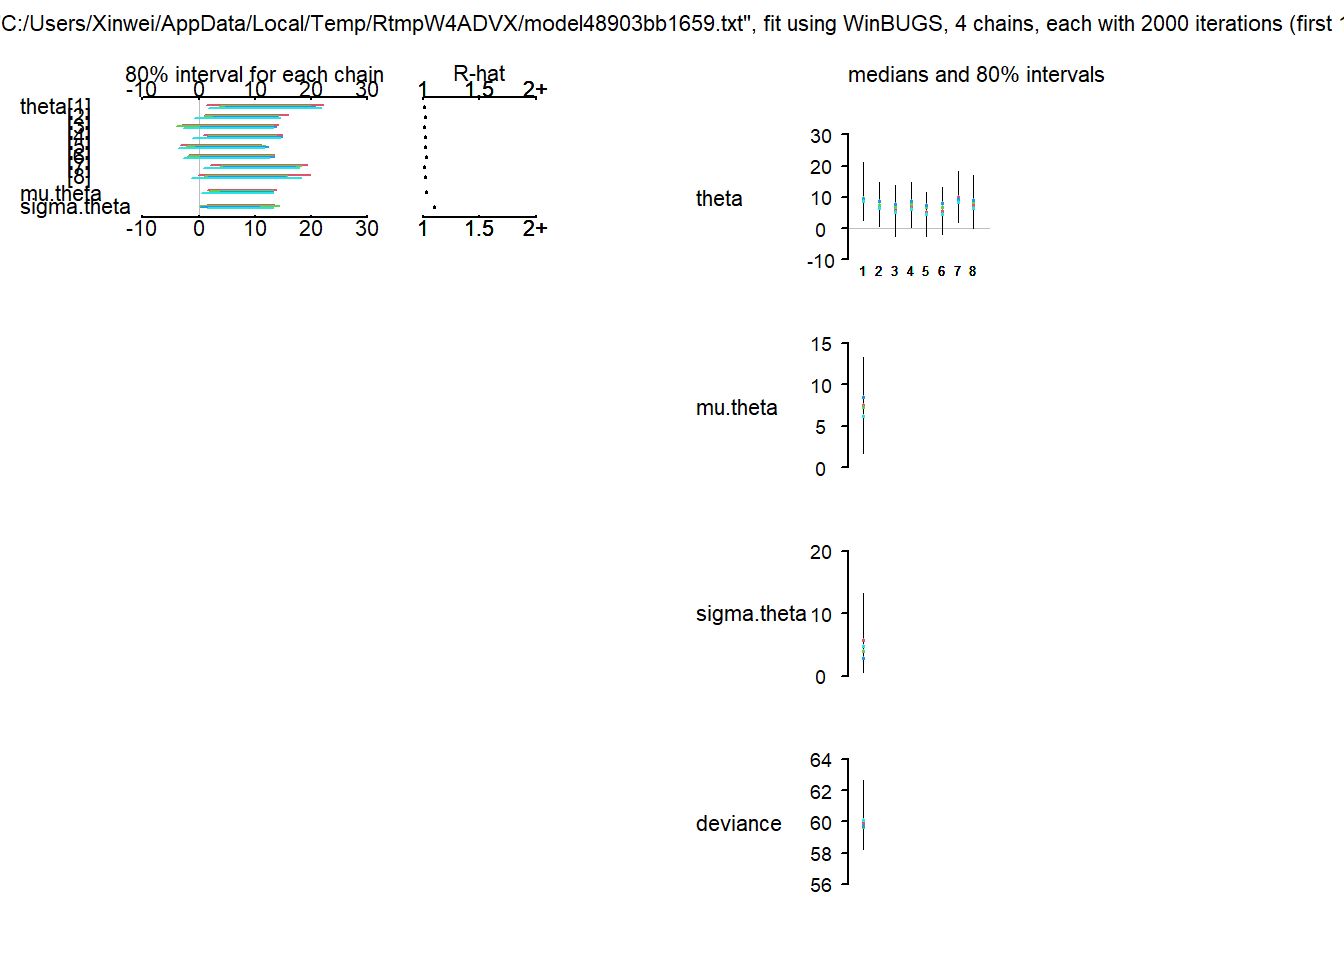
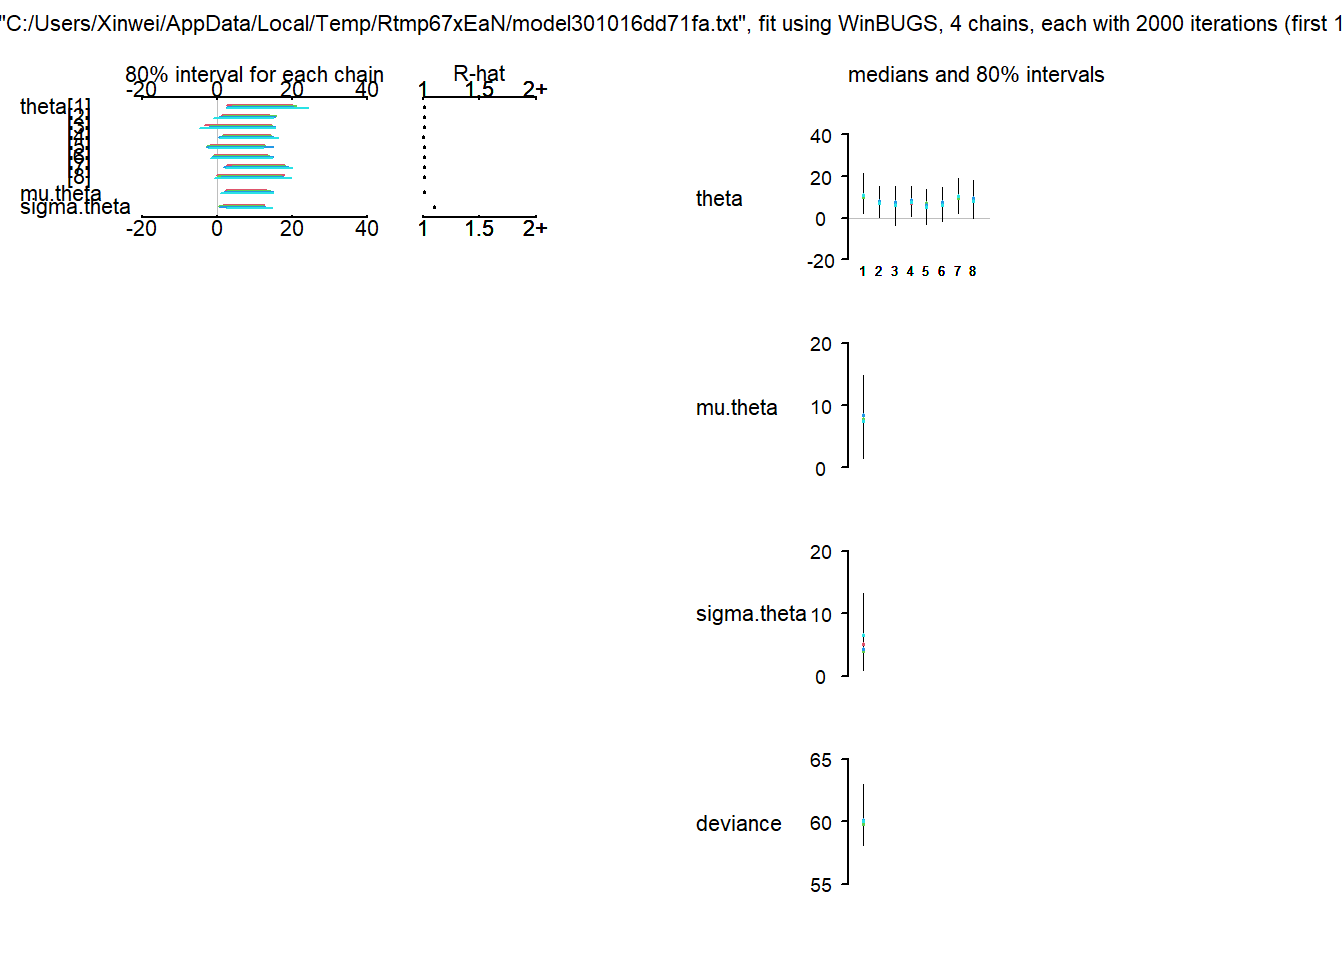
Update

diff --git a/docs/index.html b/docs/index.html
@@ -269,7 +269,7 @@ X_i \sim \text{Normal}(\mu,\sigma^2)
 <span id="cb1-12"><a href="#cb1-12" aria-hidden="true" tabindex="-1"></a><span class="fu">list</span>(<span class="at">x =</span> <span class="fu">c</span>(<span class="fl">6.62</span>, <span class="fl">6.71</span>, <span class="fl">5.07</span>, <span class="fl">4.39</span>, <span class="fl">5.68</span>, <span class="fl">3.94</span>, <span class="fl">5.83</span>, <span class="fl">2.31</span>, <span class="fl">3.60</span>, <span class="fl">4.64</span>,</span>
 <span id="cb1-13"><a href="#cb1-13" aria-hidden="true" tabindex="-1"></a><span class="fl">1.79</span>, <span class="fl">3.12</span>, <span class="fl">3.46</span>, <span class="fl">8.25</span>, <span class="fl">5.49</span>, <span class="fl">6.49</span>, <span class="fl">2.65</span>, <span class="fl">9.14</span>, <span class="fl">5.31</span>, <span class="fl">6.58</span>))</span>
 <span id="cb1-14"><a href="#cb1-14" aria-hidden="true" tabindex="-1"></a></span>
-<span id="cb1-15"><a href="#cb1-15" aria-hidden="true" tabindex="-1"></a><span class="fu">list</span>( <span class="at">mu=</span><span class="fu">c</span>(<span class="dv">0</span>), <span class="at">prec=</span><span class="fu">c</span>(<span class="dv">1</span>) )</span></code><button title="Copy to Clipboard" class="code-copy-button"><i class="bi"></i></button></pre></div>
+<span id="cb1-15"><a href="#cb1-15" aria-hidden="true" tabindex="-1"></a><span class="fu">list</span>( <span class="at">mu=</span><span class="dv">0</span>, <span class="at">prec=</span><span class="dv">1</span> )</span></code><button title="Copy to Clipboard" class="code-copy-button"><i class="bi"></i></button></pre></div>
 </div>
 <p>Note: In BUGS, the second parameter of <code>dnorm</code> is the inverse of normal variance.</p>
 <p>Now let’s see how to run these codes in WinBUGS. Open WinBUGS and create an empty script (File -&gt; New). <img src="https://github.com/XinweiBuffalo/WinBUGS/blob/main/pic/01_interface.png?raw=true" class="img-fluid"></p>
@@ -435,27 +435,27 @@ y_j|\theta_j, \sigma_j^2 \sim \text{Normal}(\theta_j, \sigma_j^2=1/\tau_j)
 <div class="sourceCode cell-code" id="cb9"><pre class="sourceCode r code-with-copy"><code class="sourceCode r"><span id="cb9-1"><a href="#cb9-1" aria-hidden="true" tabindex="-1"></a><span class="co"># summary statistics</span></span>
 <span id="cb9-2"><a href="#cb9-2" aria-hidden="true" tabindex="-1"></a><span class="fu">print</span>(schools.sim)</span></code><button title="Copy to Clipboard" class="code-copy-button"><i class="bi"></i></button></pre></div>
 <div class="cell-output cell-output-stdout">
-<pre><code>Inference for Bugs model at "C:/Users/Xinwei/AppData/Local/Temp/RtmpW4ADVX/model48903bb1659.txt", fit using WinBUGS,
+<pre><code>Inference for Bugs model at "C:/Users/Xinwei/AppData/Local/Temp/Rtmp67xEaN/model301016dd71fa.txt", fit using WinBUGS,
  4 chains, each with 2000 iterations (first 1000 discarded), n.thin = 4
  n.sims = 1000 iterations saved
             mean  sd  2.5%  25%  50%  75% 97.5% Rhat n.eff
-theta[1]    10.8 7.8  -1.9  6.2  9.3 14.4  29.5  1.0  1000
-theta[2]     7.7 5.7  -3.2  4.1  7.6 11.0  20.0  1.0   280
-theta[3]     6.1 7.4 -11.5  2.6  6.7 10.0  19.6  1.0   250
-theta[4]     7.5 6.0  -5.0  4.0  7.3 10.7  19.9  1.0   260
-theta[5]     5.2 6.1  -9.1  1.7  6.4  9.3  16.0  1.0   130
-theta[6]     6.0 6.2  -7.5  2.2  6.5  9.8  18.3  1.0   110
-theta[7]     9.9 6.5  -0.6  5.9  9.3 13.2  25.5  1.0   440
-theta[8]     8.3 7.4  -4.8  4.3  8.0 11.6  26.1  1.0   550
-mu.theta     7.7 4.9  -1.7  5.0  7.5 10.3  18.4  1.0   190
-sigma.theta  5.8 5.4   0.1  1.9  4.4  8.3  20.1  1.1    48
-deviance    60.2 1.9  57.1 59.1 59.8 61.2  64.9  1.0   760
+theta[1]    11.4 8.2  -2.0  6.4 10.4 15.4  32.8  1.0   520
+theta[2]     7.7 6.2  -4.2  4.0  7.5 11.2  21.1  1.0   340
+theta[3]     6.5 7.8 -10.3  2.1  7.2 11.1  20.8  1.0   500
+theta[4]     7.8 6.2  -5.4  4.0  7.8 11.5  20.3  1.0  1000
+theta[5]     5.4 6.8 -10.4  1.6  6.1  9.6  16.8  1.0   480
+theta[6]     6.4 6.7  -8.2  2.7  6.9 10.4  18.4  1.0   550
+theta[7]    10.5 6.7  -1.4  6.3  9.9 14.8  25.0  1.0   920
+theta[8]     9.0 7.7  -4.4  4.2  8.5 13.4  26.1  1.0  1000
+mu.theta     7.9 5.1  -2.2  4.8  7.9 11.1  17.4  1.0   990
+sigma.theta  6.4 5.6   0.1  2.4  5.1  9.1  22.0  1.1    52
+deviance    60.4 2.3  57.0 59.0 59.9 61.5  66.4  1.0   700
 
 For each parameter, n.eff is a crude measure of effective sample size,
 and Rhat is the potential scale reduction factor (at convergence, Rhat=1).
 
 DIC info (using the rule, pD = Dbar-Dhat)
-pD = 2.4 and DIC = 62.6
+pD = 2.7 and DIC = 63.1
 DIC is an estimate of expected predictive error (lower deviance is better).</code></pre>
 </div>
 <div class="sourceCode cell-code" id="cb11"><pre class="sourceCode r code-with-copy"><code class="sourceCode r"><span id="cb11-1"><a href="#cb11-1" aria-hidden="true" tabindex="-1"></a><span class="fu">plot</span>(schools.sim)</span></code><button title="Copy to Clipboard" class="code-copy-button"><i class="bi"></i></button></pre></div>
@@ -480,7 +480,7 @@ DIC is an estimate of expected predictive error (lower deviance is better).</cod
 <span id="cb14-2"><a href="#cb14-2" aria-hidden="true" tabindex="-1"></a><span class="co"># Probability calculation</span></span>
 <span id="cb14-3"><a href="#cb14-3" aria-hidden="true" tabindex="-1"></a><span class="fu">mean</span>(schools.sim<span class="sc">$</span>sims.list<span class="sc">$</span>theta[,<span class="dv">1</span>]<span class="sc">&gt;</span><span class="dv">10</span>)</span></code><button title="Copy to Clipboard" class="code-copy-button"><i class="bi"></i></button></pre></div>
 <div class="cell-output cell-output-stdout">
-<pre><code>[1] 0.447</code></pre>
+<pre><code>[1] 0.527</code></pre>
 </div>
 <div class="sourceCode cell-code" id="cb16"><pre class="sourceCode r code-with-copy"><code class="sourceCode r"><span id="cb16-1"><a href="#cb16-1" aria-hidden="true" tabindex="-1"></a><span class="co"># Compare the treatment effect</span></span>
 <span id="cb16-2"><a href="#cb16-2" aria-hidden="true" tabindex="-1"></a><span class="fu">mean</span>(schools.sim<span class="sc">$</span>sims.list<span class="sc">$</span>theta[,<span class="dv">1</span>])<span class="sc">&gt;</span><span class="fu">mean</span>(schools.sim<span class="sc">$</span>sims.list<span class="sc">$</span>theta[,<span class="dv">3</span>])</span></code><button title="Copy to Clipboard" class="code-copy-button"><i class="bi"></i></button></pre></div>
